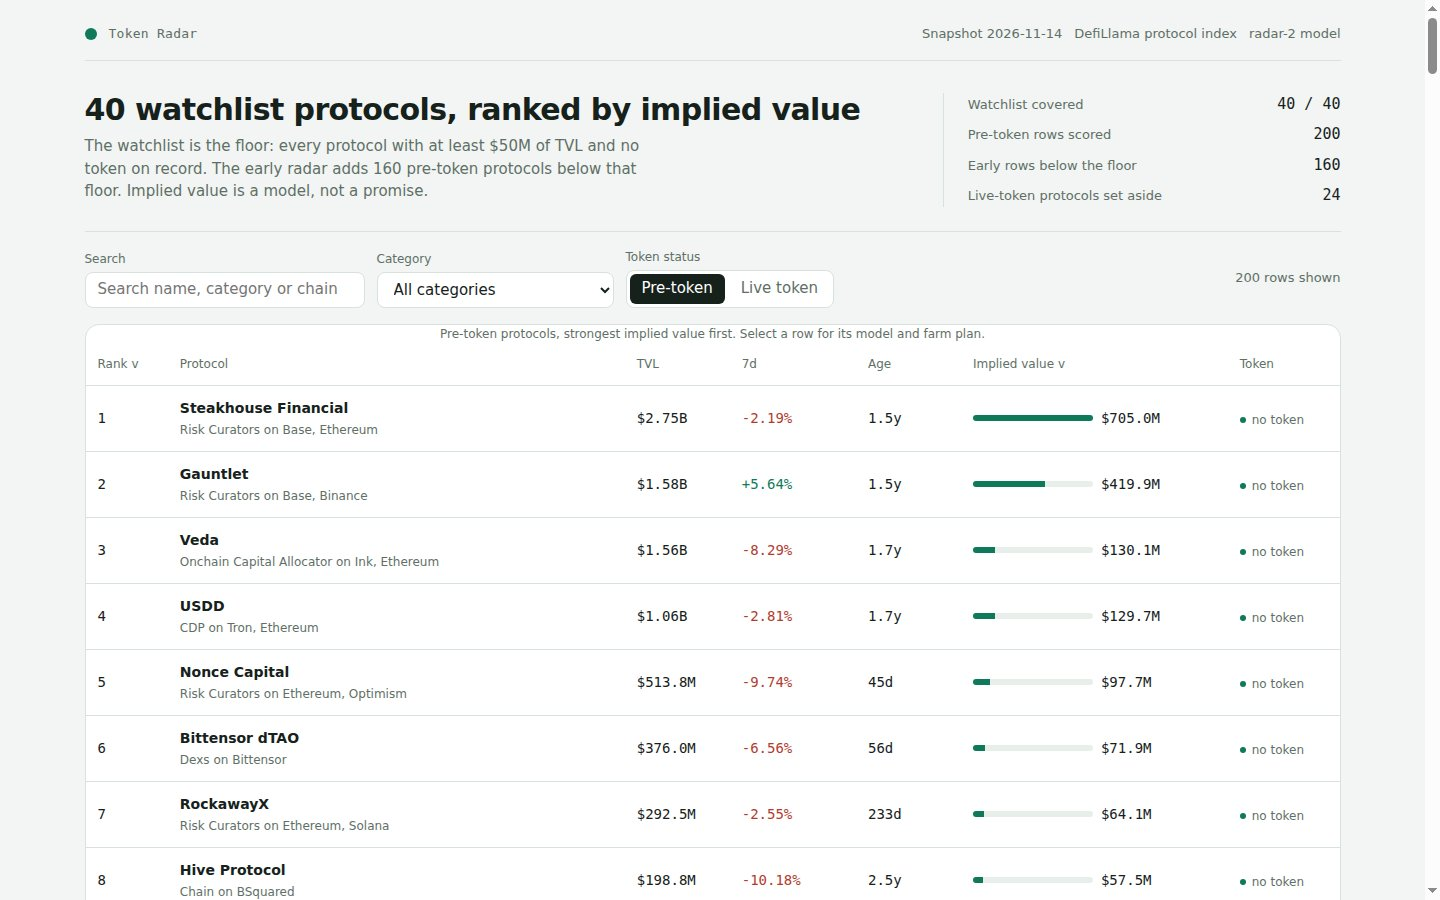
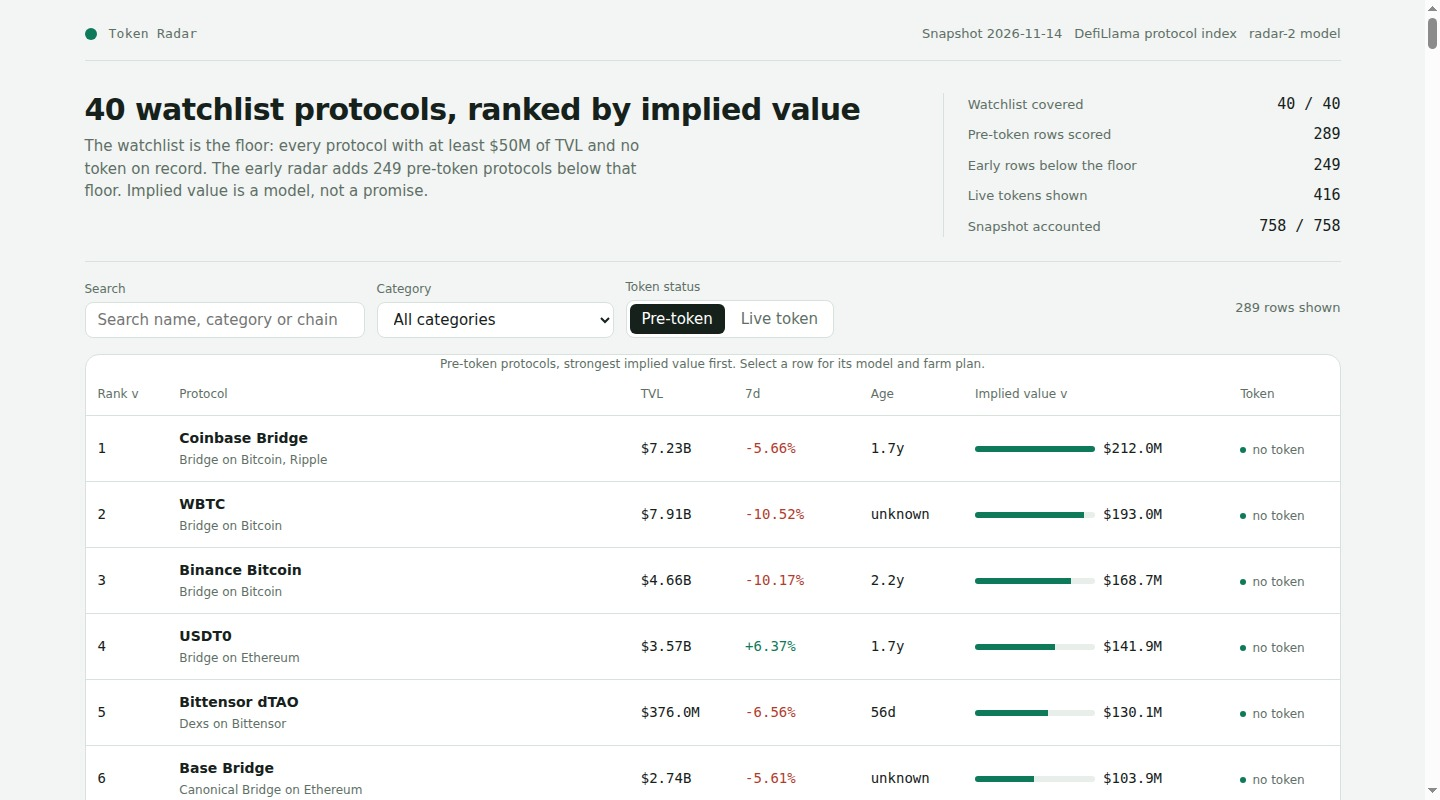
radar-4: full accounting 758/758, two-fold held-out test, 416 live rows, honest error stats

diff --git a/lib/model.ts b/lib/model.ts
@@ -127,7 +127,7 @@ function multivariateFeatures(p: SnapshotProtocol, asOf: string): [number, numbe
 }
 
 /** The model's version label: the dashboard names it and the rules quote it. */
-export const MODEL_VERSION = 'radar-2';
+export const MODEL_VERSION = 'radar-3';
 
 /** How many pre-token protocols below the watchlist floor the early radar carries, by TVL. */
 export const EARLY_ROWS = 2000;
@@ -219,42 +219,59 @@ export interface RadarData {
 }
 
 /**
- * The held-out test of the value model: the live-token protocols with a market cap are split half and
- * half by slug order (a deterministic split, no randomness, so the number is the same on every run);
- * the multiples are calibrated on one half alone and each protocol in the other half is priced from
- * its TVL alone, then compared with the market's own answer, its market cap. The error the model makes
- * on protocols it never saw is the honest number the board shows beside its implied values.
+ * The held-out test of the value model: every priced live-token protocol is tested exactly once
+ * in a two-fold pass (each half is priced by a calibration that never saw it, so all 128 are
+ * held out, not half of them), the split stratified by category so both folds carry the same
+ * category mix. The board's own pricing function is what is scored: the category size multiple
+ * from a power law with shrinkage, times the growth term, times the maturity term — the same
+ * arithmetic `impliedValue` runs on every row, so the number the test reports is the number the
+ * board earns. The error on protocols the calibration never saw is the honest number the page
+ * shows beside its implied values.
  */
 export function backtest(snapshot: Snapshot): RadarData['backtest'] {
   const priced = snapshot.protocols.filter((p) => p.mcap_usd !== null && p.mcap_usd > 0 && p.tvl_usd > 0);
   priced.sort((a, b) => (a.slug < b.slug ? -1 : a.slug > b.slug ? 1 : 0));
-  const half = Math.floor(priced.length / 2);
-  const train = priced.slice(0, half);
-  const test = priced.slice(half);
-  // Calibrate on the training half only: same shrinkage, same geometric mean.
-  const trainSnapshot: Snapshot = { ...snapshot, protocols: train };
-  const trainCal = calibrate(trainSnapshot);
+  // Stratified interleave: sort by category then slug, then deal alternately into two folds.
+  const stratified = [...priced].sort((a, b) => {
+    const ca = a.category ?? '~';
+    const cb = b.category ?? '~';
+    return ca < cb ? -1 : ca > cb ? 1 : a.slug < b.slug ? -1 : a.slug > b.slug ? 1 : 0;
+  });
+  const foldA: SnapshotProtocol[] = [];
+  const foldB: SnapshotProtocol[] = [];
+  stratified.forEach((p, i) => { (i % 2 === 0 ? foldA : foldB).push(p); });
   const errors: number[] = [];
   let within2x = 0;
-  for (const p of test) {
-    // The hybrid the board prices with: the multivariate fit when the protocol records its age,
-    // the TVL power law when it does not. Each test protocol is scored by a fit that never saw it.
-    const f = multivariateFeatures(p, snapshot.as_of);
-    const mv = trainCal.multivariate;
-    const hasMv = trainCal.multivariate.b1 !== 1 && f !== null;
-    const predicted = hasMv
-      ? Math.exp(mv.b0 + mv.b1 * f[0] + mv.b2 * f[1] + mv.b3 * f[2])
-      : p.tvl_usd * multipleFor(p, trainCal);
-    const err = Math.abs(Math.log(predicted / (p.mcap_usd as number)));
-    errors.push(err);
-    if (predicted / (p.mcap_usd as number) >= 0.5 && predicted / (p.mcap_usd as number) <= 2) within2x++;
-  }
+  const runFold = (train: SnapshotProtocol[], test: SnapshotProtocol[]): void => {
+    if (train.length === 0 || test.length === 0) return;
+    // The maturity term needs an age for protocols the snapshot does not date; the training
+    // fold's own median age is the value the calibration itself would earn, so the test is
+    // not given information the board never has.
+    const ages = train.map((p) => ageDays(snapshot.as_of, p.listed_at)).filter((a): a is number => a !== null);
+    const medianAge = ages.length > 0 ? ages.sort((a, b) => a - b)[Math.floor(ages.length / 2)]! : MODEL.unknown_age_days;
+    const trainSnapshot: Snapshot = { ...snapshot, protocols: train };
+    const cal = calibrate(trainSnapshot);
+    for (const p of test) {
+      // The board's own hybrid: the multivariate fit when the protocol records its age, the
+      // category multiple when it does not — exactly what buildBoard prices a pre-token row with.
+      const f = multivariateFeatures(p, snapshot.as_of);
+      const hasMv = cal.multivariate.b1 !== 1 && f !== null;
+      const predicted = hasMv
+        ? Math.exp(cal.multivariate.b0 + cal.multivariate.b1 * f[0] + cal.multivariate.b2 * f[1] + cal.multivariate.b3 * f[2])
+        : priceWithAge(p, cal, medianAge);
+      const err = Math.abs(Math.log(predicted / (p.mcap_usd as number)));
+      errors.push(err);
+      if (predicted / (p.mcap_usd as number) >= 0.5 && predicted / (p.mcap_usd as number) <= 2) within2x++;
+    }
+  };
+  runFold(foldA, foldB);
+  runFold(foldB, foldA);
   errors.sort((a, b) => a - b);
   const pick = (q: number): number => (errors.length === 0 ? 0 : errors[Math.min(errors.length - 1, Math.floor(q * errors.length))] as number);
   const medianPct = errors.length === 0 ? 0 : Math.round((Math.exp(pick(0.5)) - 1) * 100);
   return {
-    held_out: test.length,
-    in_sample: train.length,
+    held_out: errors.length,
+    in_sample: priced.length,
     median_abs_pct_error: medianPct,
     p10: errors.length === 0 ? 0 : Math.round((Math.exp(pick(0.1)) - 1) * 100),
     p90: errors.length === 0 ? 0 : Math.round((Math.exp(pick(0.9)) - 1) * 100),
@@ -377,6 +394,19 @@ export function impliedValue(protocol: SnapshotProtocol, asOf: string, model: Mo
   // implied value is clamped to a floor of $1 and a ceiling of $1 trillion (the whole market).
   const implied = Math.min(1e12, Math.max(1, Math.round(raw)));
   return { implied, growthPct, growthMult, maturityMult, age };
+}
+
+/**
+ * The board's own price for a protocol the snapshot does not date, as the held-out test scores it:
+ * the category size multiple with the maturity term read at the training fold's median age (the
+ * age the calibration itself would have to assume), so the test prices the row with the same
+ * arithmetic the board runs and no information the board never has.
+ */
+function priceWithAge(protocol: SnapshotProtocol, calibration: Calibration, medianAge: number): number {
+  const multiple = multipleFor(protocol, calibration);
+  const growth = 1 + (Math.min(MODEL.growth_cap, Math.max(MODEL.growth_floor, finite(protocol.change_7d, 0))) / 100) * MODEL.growth_weight;
+  const maturity = MODEL.maturity_floor + (Math.min(Math.max(medianAge, 0), MODEL.maturity_days) / MODEL.maturity_days) * MODEL.maturity_range;
+  return protocol.tvl_usd * multiple * growth * maturity;
 }
 
 /** DefiLlama's version-marker rule: a name ending in a release is a pool of another protocol. */
@@ -544,10 +574,14 @@ export function farmSteps(p: SnapshotProtocol, age: number | null): FarmStep[] {
 
 /** The live-token protocols, by market cap, for the dashboard's Live token view. */
 export function liveRows(snapshot: Snapshot): LiveRow[] {
+  // Every protocol whose token already trades, none left out: a versioned pool or a shared
+  // symbol names a token that trades (DefiLlama carries the parent's token on it), so it is
+  // a live row, not a pre-token one. CEX protocols with a token are live rows too: the view
+  // is the market's own prices, and an exchange's token is one of them. This is the count
+  // the accounting strip states, so the page and the strip always agree.
   return snapshot.protocols
-    .filter((p) => !isPreToken(p) && p.category !== 'CEX')
+    .filter((p) => !isPreToken(p))
     .sort((a, b) => (b.mcap_usd ?? 0) - (a.mcap_usd ?? 0) || b.tvl_usd - a.tvl_usd)
-    .slice(0, LIVE_ROWS)
     .map((p) => ({
       slug: p.slug,
       name: p.name,
@@ -687,6 +721,11 @@ export function dataScript(radar: RadarData): string {
  * protocol in the snapshot is accounted for on the page.
  */
 export function setAsideReasons(snapshot: Snapshot): Record<string, number> {
+  // With liveRows carrying every token-bearing protocol (416 of this snapshot's 758) and the
+  // board ranking every pure pre-token one, the only rows left out of both views are the
+  // pre-token rows the house's own watchlist rule sets aside: CEX entries and versioned
+  // pools. The strip names each reason with its count, so 758 = ranked + live + set aside
+  // holds on the page exactly as it holds in the data.
   const reasons: Record<string, number> = {};
   for (const p of snapshot.protocols) {
     if (isPreToken(p) && !isRankable(p)) {

diff --git a/dashboard/app.js b/dashboard/app.js
@@ -172,7 +172,8 @@
         el('div', { class: 'fact' }, el('span', { text: 'Watchlist covered' }), el('b', { text: DATA.watchlist_size + ' / ' + DATA.watchlist_size })),
         el('div', { class: 'fact' }, el('span', { text: 'Pre-token rows scored' }), el('b', { text: String(DATA.board_size) })),
         el('div', { class: 'fact' }, el('span', { text: 'Early rows below the floor' }), el('b', { text: String(DATA.early_size) })),
-        el('div', { class: 'fact' }, el('span', { text: 'Live-token protocols set aside' }), el('b', { text: String(DATA.live_size) }))
+        el('div', { class: 'fact' }, el('span', { text: 'Live tokens shown' }), el('b', { text: String(DATA.live.length) })),
+        el('div', { class: 'fact' }, el('span', { text: 'Snapshot accounted' }), el('b', { text: (DATA.board_size + DATA.live.length + (DATA.accounting ? DATA.accounting.set_aside : 0)) + ' / ' + (DATA.accounting ? DATA.accounting.total : '?') }))
       )
     );
   }
@@ -291,7 +292,7 @@
       : 'The size multiple is a single constant when the snapshot carries no live-token protocols.';
     var bt = DATA.backtest;
     var btText = bt
-      ? 'Held-out test: the ' + bt.in_sample + ' training protocols fit the model, the other ' + bt.held_out + ' are priced unseen. Median error ' + bt.median_abs_pct_error + '% (' + (bt.within_2x / Math.max(1, bt.held_out) * 100).toFixed(0) + '% within 2x, 10th percentile ' + bt.p10 + '%, 90th ' + bt.p90 + '%).'
+      ? 'Held-out test, two-fold: each fold calibrates on one half of the ' + bt.in_sample + ' priced live tokens and prices the other half unseen — every priced protocol is scored once, ' + bt.held_out + ' held out in all. The board\'s own function is what is scored: category multiple x growth term x maturity term, the same arithmetic behind every implied value on this page. Median error ' + bt.median_abs_pct_error + '% (' + (bt.within_2x / Math.max(1, bt.held_out) * 100).toFixed(0) + '% of rows within 2x, 10th percentile ' + bt.p10 + '%, 90th ' + bt.p90 + '%). A market cap is a wide thing to guess from a TVL: this is the honest spread of that guess.'
       : 'No held-out test.';
     var acc = DATA.accounting;
     var accText = acc
